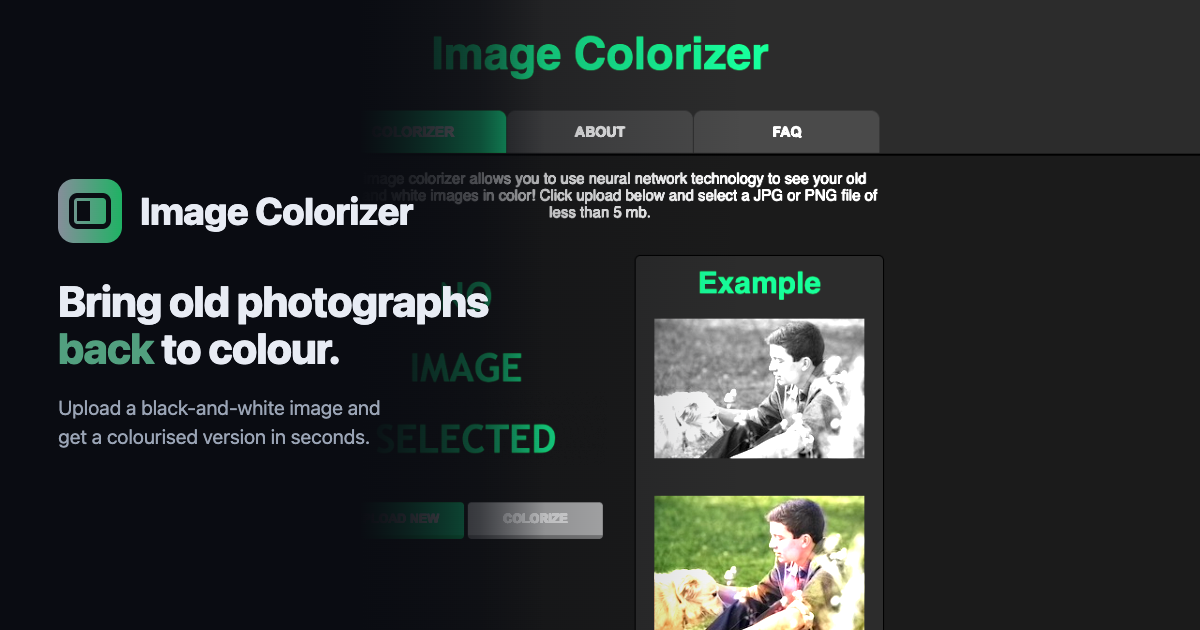
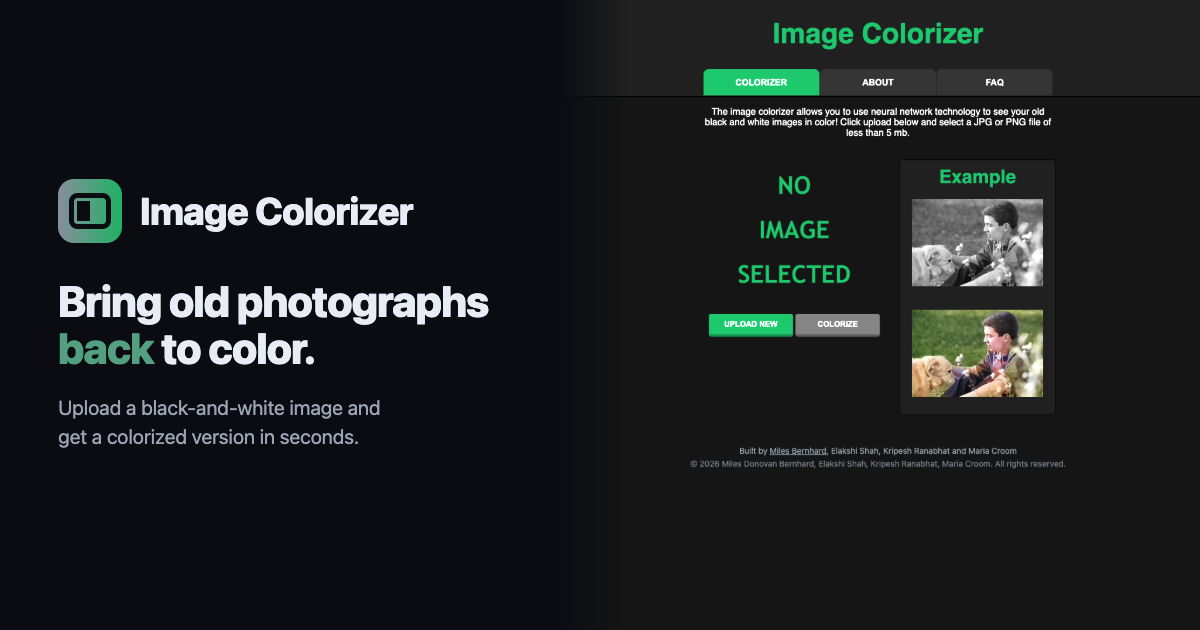
Colorized, not colourised
American spelling throughout the copy, and the card re-rendered to match.

diff --git a/index.html b/index.html
@@ -15,18 +15,18 @@
     <link rel="apple-touch-icon" href="/apple-touch-icon.png" />
     <!-- site-standards:start — managed by portfolio/scripts; edit copy in sites.json -->
     <link rel="canonical" href="https://image-colorizer.milestomorrow.com/" />
-    <meta name="description" content="Upload a black-and-white photograph and get a colourised version back in seconds, from a model running on Cloud Run." />
+    <meta name="description" content="Upload a black-and-white photograph and get a colorized version back in seconds, from a model running on Cloud Run." />
     <meta property="og:type" content="website" />
     <meta property="og:site_name" content="Image Colorizer" />
-    <meta property="og:title" content="Image Colorizer — Bring old photographs back to colour." />
-    <meta property="og:description" content="Upload a black-and-white image and get a colourised version in seconds." />
+    <meta property="og:title" content="Image Colorizer — Bring old photographs back to color." />
+    <meta property="og:description" content="Upload a black-and-white image and get a colorized version in seconds." />
     <meta property="og:url" content="https://image-colorizer.milestomorrow.com/" />
     <meta property="og:image" content="https://image-colorizer.milestomorrow.com/og.png" />
     <meta property="og:image:width" content="1200" />
     <meta property="og:image:height" content="630" />
     <meta name="twitter:card" content="summary_large_image" />
-    <meta name="twitter:title" content="Image Colorizer — Bring old photographs back to colour." />
-    <meta name="twitter:description" content="Upload a black-and-white image and get a colourised version in seconds." />
+    <meta name="twitter:title" content="Image Colorizer — Bring old photographs back to color." />
+    <meta name="twitter:description" content="Upload a black-and-white image and get a colorized version in seconds." />
     <meta name="twitter:image" content="https://image-colorizer.milestomorrow.com/og.png" />
     <script async src="https://www.googletagmanager.com/gtag/js?id=G-RBTKWG11TT"></script>
     <script>window.dataLayer=window.dataLayer||[];function gtag(){dataLayer.push(arguments);}gtag("js",new Date());gtag("config","G-RBTKWG11TT");</script>
